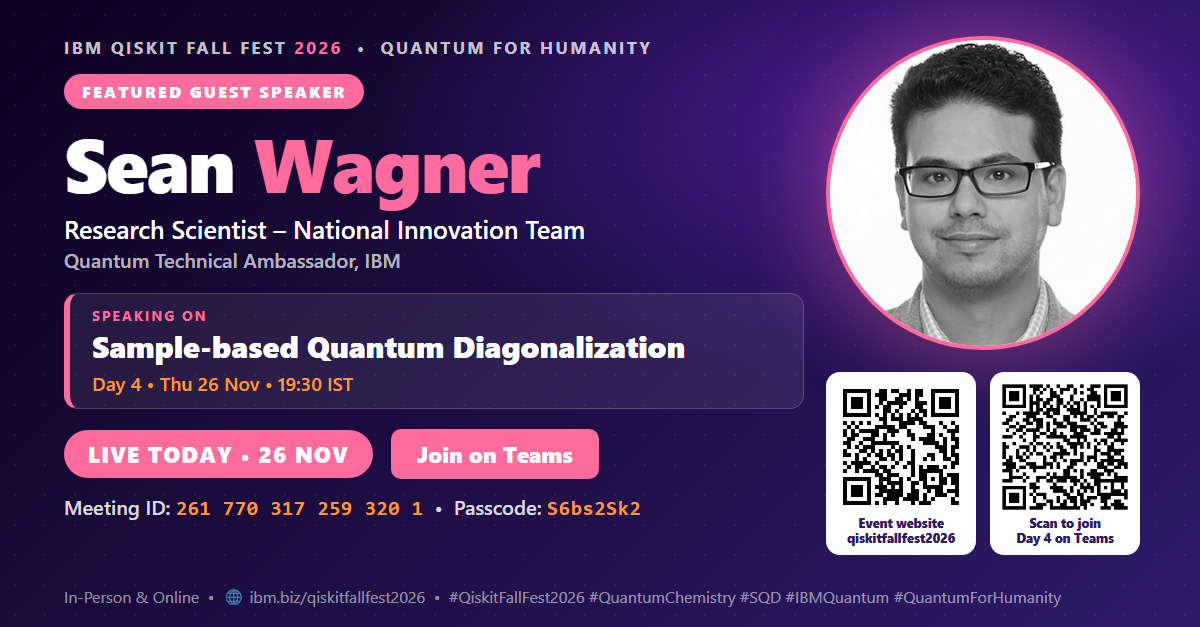
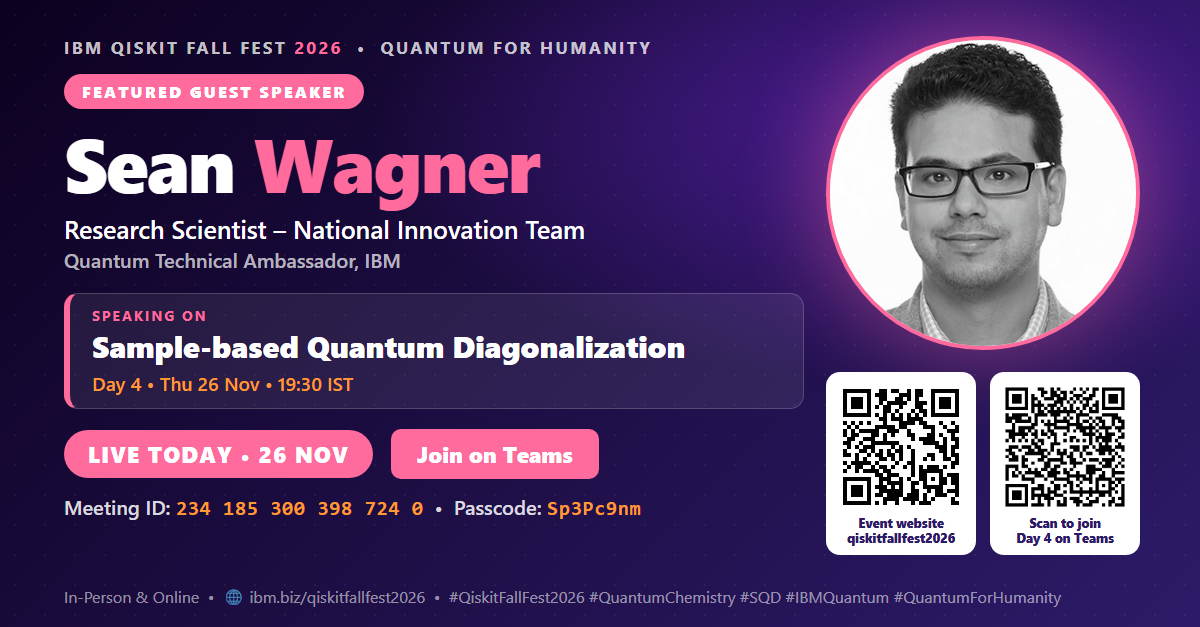
Day 4 ads and Welcome PPT: use dedicated Day 4 Teams link, QR, meeting ID and passcode

Changed region(s): [[0.8325, 0.6061, 0.9558, 0.8182], [0.1542, 0.7879, 0.37, 0.8182], [0.4625, 0.7879, 0.555, 0.8182]]

diff --git a/Advertisements/index.html b/Advertisements/index.html
@@ -136,7 +136,7 @@ footer{background:#060012;padding:40px 5%;text-align:center;border-top:1px solid
       <div class="card-body">
         <div class="card-title">&#127908; Day 4 Speakers: Research &amp; Industry Applications (Landscape)</div>
         <div class="card-specs">1200 &times; 627 px &bull; Landscape Banner &bull; Live today &bull; Teams QR</div>
-        <div class="card-desc">Meet the five Day 4 speakers (Thu 26 Nov, 09:30&ndash;19:30 IST) with session times and a scan-to-join Teams QR code. Same Teams link as Days 3 and 5.</div>
+        <div class="card-desc">Meet the five Day 4 speakers (Thu 26 Nov, 09:30&ndash;19:30 IST) with session times and a scan-to-join Teams QR code. Uses the dedicated Day 4 Teams link.</div>
         <div class="card-actions">
           <a class="btn btn-primary" href="QFF2026-day4-speakers-ad.png" download>Download PNG</a>
           <a class="btn btn-outline" href="source/day4-speakers-ad.html" target="_blank">View HTML Source</a>

diff --git a/Advertisements/source/speaker-puneet-gandhi-square.html b/Advertisements/source/speaker-puneet-gandhi-square.html
@@ -28,6 +28,6 @@ h1 .sn{color:#FF6B9D}
   <div class="role">Associate Partner &ndash; Global Solutioning Leader<span>Salesforce, ServiceNow &amp; Industries Consulting, IBM</span></div>
   <div class="topic"><small>Speaking on</small><strong>Quantum Computing in Telecom</strong><em>Day 4 &bull; Thu 26 Nov &bull; 15:30 IST</em></div>
   <div class="row"><span class="chip">LIVE TODAY &bull; 26 NOV</span><span class="cta">Join on Teams</span></div>
-    <div class="join" style="font-size:25px">Meeting ID: <b>261 770 317 259 320 1</b> &nbsp;&bull;&nbsp; Passcode: <b>S6bs2Sk2</b></div>
+    <div class="join" style="font-size:25px">Meeting ID: <b>234 185 300 398 724 0</b> &nbsp;&bull;&nbsp; Passcode: <b>Sp3Pc9nm</b></div>
   <div class="foot">In-Person &amp; Online &bull; &#127760; ibm.biz/qiskitfallfest2026 &bull; #QiskitFallFest2026 #QuantumTelecom #IBMConsulting #QuantumForHumanity</div>
 </div></body></html>

diff --git a/Advertisements/source/speaker-sean-wagner-square.html b/Advertisements/source/speaker-sean-wagner-square.html
@@ -28,6 +28,6 @@ h1 .sn{color:#FF6B9D}
   <div class="role">Research Scientist &ndash; National Innovation Team<span>Quantum Technical Ambassador, IBM</span></div>
   <div class="topic"><small>Speaking on</small><strong>Sample-based Quantum Diagonalization</strong><em>Day 4 &bull; Thu 26 Nov &bull; 19:30 IST</em></div>
   <div class="row"><span class="chip">LIVE TODAY &bull; 26 NOV</span><span class="cta">Join on Teams</span></div>
-    <div class="join" style="font-size:25px">Meeting ID: <b>261 770 317 259 320 1</b> &nbsp;&bull;&nbsp; Passcode: <b>S6bs2Sk2</b></div>
+    <div class="join" style="font-size:25px">Meeting ID: <b>234 185 300 398 724 0</b> &nbsp;&bull;&nbsp; Passcode: <b>Sp3Pc9nm</b></div>
   <div class="foot">In-Person &amp; Online &bull; &#127760; ibm.biz/qiskitfallfest2026 &bull; #QiskitFallFest2026 #QuantumChemistry #SQD #IBMQuantum #QuantumForHumanity</div>
 </div></body></html>

diff --git a/Advertisements/source/speaker-pradeep-lamba-square.html b/Advertisements/source/speaker-pradeep-lamba-square.html
@@ -28,6 +28,6 @@ h1 .sn{color:#FF6B9D}
   <div class="role">Senior Solution Consultant<span>Supply Chain &amp; Sustainability, IBM</span></div>
   <div class="topic"><small>Speaking on</small><strong>Drug Discovery: Quantum Simulation for TB &amp; Malaria</strong><em>Day 4 &bull; Thu 26 Nov &bull; 14:30 IST</em></div>
   <div class="row"><span class="chip">LIVE TODAY &bull; 26 NOV</span><span class="cta">Join on Teams</span></div>
-    <div class="join" style="font-size:25px">Meeting ID: <b>261 770 317 259 320 1</b> &nbsp;&bull;&nbsp; Passcode: <b>S6bs2Sk2</b></div>
+    <div class="join" style="font-size:25px">Meeting ID: <b>234 185 300 398 724 0</b> &nbsp;&bull;&nbsp; Passcode: <b>Sp3Pc9nm</b></div>
   <div class="foot">In-Person &amp; Online &bull; &#127760; ibm.biz/qiskitfallfest2026 &bull; #QiskitFallFest2026 #DrugDiscovery #Healthcare #QuantumForHumanity</div>
 </div></body></html>

diff --git a/Advertisements/source/speaker-guncha-malik-square.html b/Advertisements/source/speaker-guncha-malik-square.html
@@ -28,6 +28,6 @@ h1 .sn{color:#FF6B9D}
   <div class="role">IBM Quantum Technical Ambassador<span>IBM</span></div>
   <div class="topic"><small>Speaking on</small><strong>Fault-Tolerant Quantum Computing: The Next Decade</strong><em>Day 4 &bull; Thu 26 Nov &bull; 12:00 IST</em></div>
   <div class="row"><span class="chip">LIVE TODAY &bull; 26 NOV</span><span class="cta">Join on Teams</span></div>
-    <div class="join" style="font-size:25px">Meeting ID: <b>261 770 317 259 320 1</b> &nbsp;&bull;&nbsp; Passcode: <b>S6bs2Sk2</b></div>
+    <div class="join" style="font-size:25px">Meeting ID: <b>234 185 300 398 724 0</b> &nbsp;&bull;&nbsp; Passcode: <b>Sp3Pc9nm</b></div>
   <div class="foot">In-Person &amp; Online &bull; &#127760; ibm.biz/qiskitfallfest2026 &bull; #QiskitFallFest2026 #FaultTolerance #IBMQuantum #QuantumForHumanity</div>
 </div></body></html>

diff --git a/Advertisements/source/speaker-ravindranath-nemani-square.html b/Advertisements/source/speaker-ravindranath-nemani-square.html
@@ -28,6 +28,6 @@ h1 .sn{color:#FF6B9D}
   <div class="role">Data Scientist</div>
   <div class="topic"><small>Speaking on</small><strong>Geometric Quantum Machine Learning</strong><em>Day 4 &bull; Thu 26 Nov &bull; 09:30 IST</em></div>
   <div class="row"><span class="chip">LIVE TODAY &bull; 26 NOV</span><span class="cta">Join on Teams</span></div>
-    <div class="join" style="font-size:25px">Meeting ID: <b>261 770 317 259 320 1</b> &nbsp;&bull;&nbsp; Passcode: <b>S6bs2Sk2</b></div>
+    <div class="join" style="font-size:25px">Meeting ID: <b>234 185 300 398 724 0</b> &nbsp;&bull;&nbsp; Passcode: <b>Sp3Pc9nm</b></div>
   <div class="foot">In-Person &amp; Online &bull; &#127760; ibm.biz/qiskitfallfest2026 &bull; #QiskitFallFest2026 #QuantumML #GeometricML #QuantumForHumanity</div>
 </div></body></html>

diff --git a/Advertisements/source/day4-speakers-square.html b/Advertisements/source/day4-speakers-square.html
@@ -67,7 +67,7 @@ h1 span{color:#FF6B9D}
     </div>
     <div class="card join">
       <div class="qrbox"><img src="qr-teams-day4.png"><span>Scan to join<br>Day 4 on Teams</span></div>
-      <div class="txt"><div class="lt">Live today</div>Meeting ID<br><b>261 770 317 259 320 1</b><br>Passcode: <b>S6bs2Sk2</b></div>
+      <div class="txt"><div class="lt">Live today</div>Meeting ID<br><b>234 185 300 398 724 0</b><br>Passcode: <b>Sp3Pc9nm</b></div>
     </div>
   </div>
   <div class="cta-row"><div class="pill">Join on Teams</div><div class="pill o">In-Person &amp; Online</div></div>

diff --git a/Advertisements/source/speaker-ravindranath-nemani-ad.html b/Advertisements/source/speaker-ravindranath-nemani-ad.html
@@ -38,7 +38,7 @@ h1 .sn{color:#FF6B9D}
       <em>Day 4 &bull; Thu 26 Nov &bull; 09:30 IST</em>
     </div>
     <div class="row"><span class="chip">LIVE TODAY &bull; 26 NOV</span><span class="cta">Join on Teams</span></div>
-    <div class="join">Meeting ID: <b>261 770 317 259 320 1</b> &nbsp;&bull;&nbsp; Passcode: <b>S6bs2Sk2</b></div>
+    <div class="join">Meeting ID: <b>234 185 300 398 724 0</b> &nbsp;&bull;&nbsp; Passcode: <b>Sp3Pc9nm</b></div>
   </div>
   <div class="circle hero"><img src="../../Guest%20Spekaers/Ravindranath%20Nemani.jpg"></div>
   <div class="qrs">

diff --git a/Advertisements/source/speaker-pradeep-lamba-ad.html b/Advertisements/source/speaker-pradeep-lamba-ad.html
@@ -37,7 +37,7 @@ h1 .sn{color:#FF6B9D}
       <em>Day 4 &bull; Thu 26 Nov &bull; 14:30 IST</em>
     </div>
     <div class="row"><span class="chip">LIVE TODAY &bull; 26 NOV</span><span class="cta">Join on Teams</span></div>
-    <div class="join">Meeting ID: <b>261 770 317 259 320 1</b> &nbsp;&bull;&nbsp; Passcode: <b>S6bs2Sk2</b></div>
+    <div class="join">Meeting ID: <b>234 185 300 398 724 0</b> &nbsp;&bull;&nbsp; Passcode: <b>Sp3Pc9nm</b></div>
   </div>
   <div class="circle hero"><img src="../../Guest%20Spekaers/Pradeep%20Lamba.jpg"></div>
   <div class="qrs">

diff --git a/Advertisements/source/speaker-guncha-malik-ad.html b/Advertisements/source/speaker-guncha-malik-ad.html
@@ -38,7 +38,7 @@ h1 .sn{color:#FF6B9D}
       <em>Day 4 &bull; Thu 26 Nov &bull; 12:00 IST</em>
     </div>
     <div class="row"><span class="chip">LIVE TODAY &bull; 26 NOV</span><span class="cta">Join on Teams</span></div>
-    <div class="join">Meeting ID: <b>261 770 317 259 320 1</b> &nbsp;&bull;&nbsp; Passcode: <b>S6bs2Sk2</b></div>
+    <div class="join">Meeting ID: <b>234 185 300 398 724 0</b> &nbsp;&bull;&nbsp; Passcode: <b>Sp3Pc9nm</b></div>
   </div>
   <div class="circle hero"><img src="../../Guest%20Spekaers/Guncha%20Malik.jpg"></div>
   <div class="qrs">

diff --git a/Advertisements/source/speaker-puneet-gandhi-ad.html b/Advertisements/source/speaker-puneet-gandhi-ad.html
@@ -38,7 +38,7 @@ h1 .sn{color:#FF6B9D}
       <em>Day 4 &bull; Thu 26 Nov &bull; 15:30 IST</em>
     </div>
     <div class="row"><span class="chip">LIVE TODAY &bull; 26 NOV</span><span class="cta">Join on Teams</span></div>
-    <div class="join">Meeting ID: <b>261 770 317 259 320 1</b> &nbsp;&bull;&nbsp; Passcode: <b>S6bs2Sk2</b></div>
+    <div class="join">Meeting ID: <b>234 185 300 398 724 0</b> &nbsp;&bull;&nbsp; Passcode: <b>Sp3Pc9nm</b></div>
   </div>
   <div class="circle hero"><img src="../../Guest%20Spekaers/Punet%20Gandhi.jpg"></div>
   <div class="qrs">

diff --git a/Advertisements/source/speaker-sean-wagner-ad.html b/Advertisements/source/speaker-sean-wagner-ad.html
@@ -38,7 +38,7 @@ h1 .sn{color:#FF6B9D}
       <em>Day 4 &bull; Thu 26 Nov &bull; 19:30 IST</em>
     </div>
     <div class="row"><span class="chip">LIVE TODAY &bull; 26 NOV</span><span class="cta">Join on Teams</span></div>
-    <div class="join">Meeting ID: <b>261 770 317 259 320 1</b> &nbsp;&bull;&nbsp; Passcode: <b>S6bs2Sk2</b></div>
+    <div class="join">Meeting ID: <b>234 185 300 398 724 0</b> &nbsp;&bull;&nbsp; Passcode: <b>Sp3Pc9nm</b></div>
   </div>
   <div class="circle hero"><img src="../../Guest%20Spekaers/Sean%20Wagner.png"></div>
   <div class="qrs">
